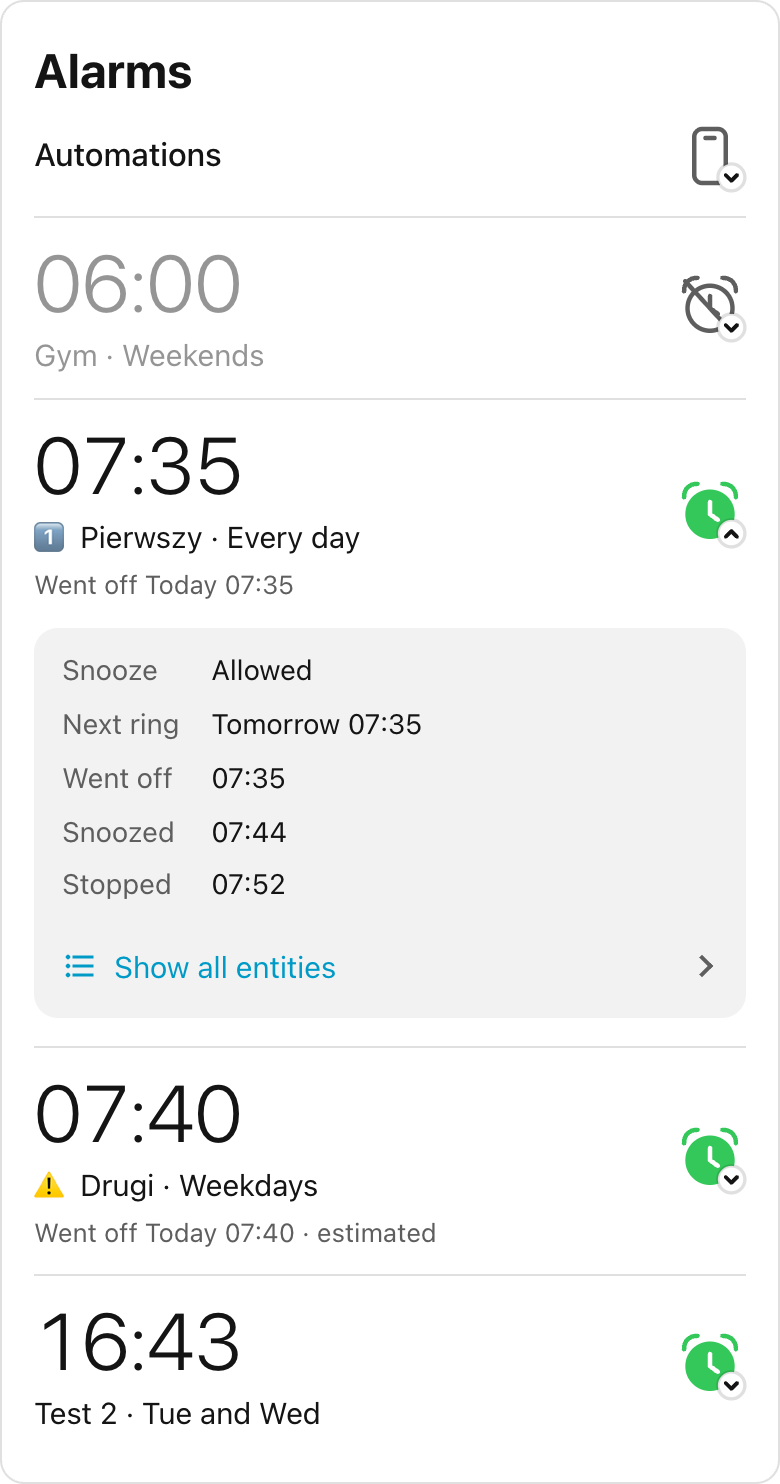
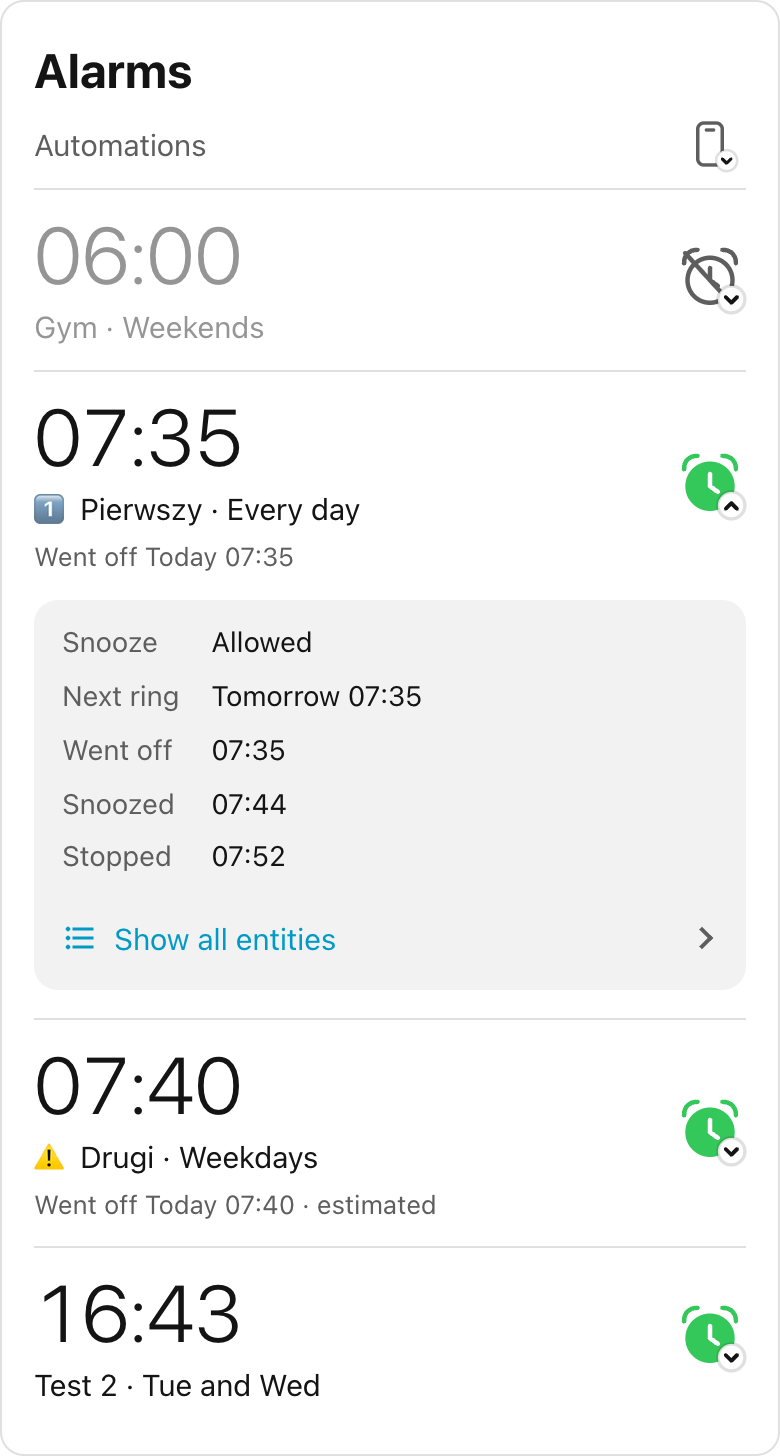
💄 Show the phone's name above a quieter Automations row

diff --git a/custom_components/iphone_alarms_sync/frontend/iphone-alarms-card.js b/custom_components/iphone_alarms_sync/frontend/iphone-alarms-card.js
@@ -367,7 +367,8 @@ const STYLE = `
 ha-card { overflow: hidden; container-type: inline-size; }
 .content { padding-block: 4px 12px; }
 .title { margin: 0; padding: 16px 16px 0; font-size: 1.5rem; font-weight: 700; line-height: 1.2; color: var(--primary-text-color); }
-.phone { padding: 16px 16px 0; font-size: 0.8125rem; font-weight: 600; letter-spacing: 0.02em; text-transform: uppercase; color: var(--secondary-text-color); }
+/* The phone's name leads its section, above its Automations row. */
+.phone { padding: 20px 16px 2px; font-size: 1.125rem; font-weight: 600; line-height: 1.3; overflow-wrap: anywhere; color: var(--primary-text-color); }
 .section { padding-inline: 16px; }
 .item { border-bottom: 1px solid var(--divider-color); }
 .section:last-child .item:last-child { border-bottom: 0; }
@@ -379,8 +380,10 @@ button:focus-visible { outline: 2px solid var(--primary-color); outline-offset: 
 .subtitle { display: flex; align-items: center; gap: 6px; margin-top: 4px; overflow: hidden; font-size: 0.9375rem; line-height: 1.35; white-space: nowrap; flex-wrap: wrap; color: var(--primary-text-color); }
 .subtitle span { overflow: hidden; text-overflow: ellipsis; }
 .subtitle .last { flex-basis: 100%; font-size: 0.8125rem; color: var(--secondary-text-color); }
-/* One line, not an alarm: its groups are named inside. */
-.phone-row .time { font-size: 1rem; font-weight: 500; letter-spacing: 0; }
+/* One line, quieter than the phone's name and the alarms: a way in, not a heading. */
+.phone-row .row { padding: 8px 0; }
+.phone-row .time { font-size: 0.9375rem; font-weight: 400; letter-spacing: 0; color: var(--secondary-text-color); }
+.phone-row .status { width: 28px; height: 28px; margin-inline-end: 4px; }
 .phone-row .subtitle { display: none; }
 .off .main { opacity: var(--iphone-alarms-disabled-opacity, 0.45); }
 .status { flex: none; width: 36px; height: 36px; overflow: visible; fill: none; stroke: var(--secondary-text-color); stroke-width: 2; stroke-linecap: round; stroke-linejoin: round; }

diff --git a/tests/frontend/preview.html b/tests/frontend/preview.html
@@ -86,6 +86,8 @@
         loading: { expand: PHONE.id, hass: { callWS: () => new Promise(() => {}) } },
         error: { expand: PHONE.id, hass: { callWS: async () => Promise.reject(new Error("x")) } },
         "two-phones": { config: { title: "Alarms" }, hass: { phones: [PHONE, SECOND_PHONE] } },
+        // Each phone has its own row; one open at a time.
+        "two-phones-open": { config: { title: "Alarms" }, expand: PHONE.id, hass: { phones: [PHONE, SECOND_PHONE] } },
         "picked-alarms": { config: { devices: ["1a2b3c4d5e6f7a8b", "3c4d5e6f7a8b9c0d", "deleted_alarm"] } },
         "no-disabled": { config: { show_disabled: false } },
         "no-alarms": { hass: { phones: [{ ...SECOND_PHONE, alarms: [] }] } },
